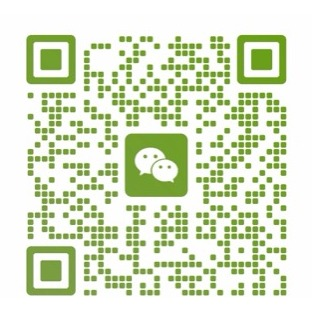
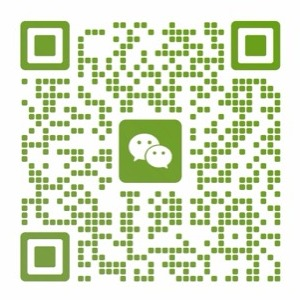
Re-crop WeChat QR with even margins and shrink tooltip to 160x160
- crop_qr_v3.py detects the green QR pattern, centers a square crop
  around it with a 20px margin on each side, so the QR sits at the
  center of the tooltip with equal white space on all four edges.
- Tooltip size: 180→160px per request.

diff --git a/src/components/home/Profile.tsx b/src/components/home/Profile.tsx
@@ -291,8 +291,8 @@ export default function Profile({ author, social, features, researchInterests }:
                                                 role="img"
                                                 aria-label="WeChat QR"
                                                 style={{
-                                                    width: '180px',
-                                                    height: '180px',
+                                                    width: '160px',
+                                                    height: '160px',
                                                     backgroundImage: `url(${social.wechat_qr})`,
                                                     backgroundSize: 'contain',
                                                     backgroundRepeat: 'no-repeat',
